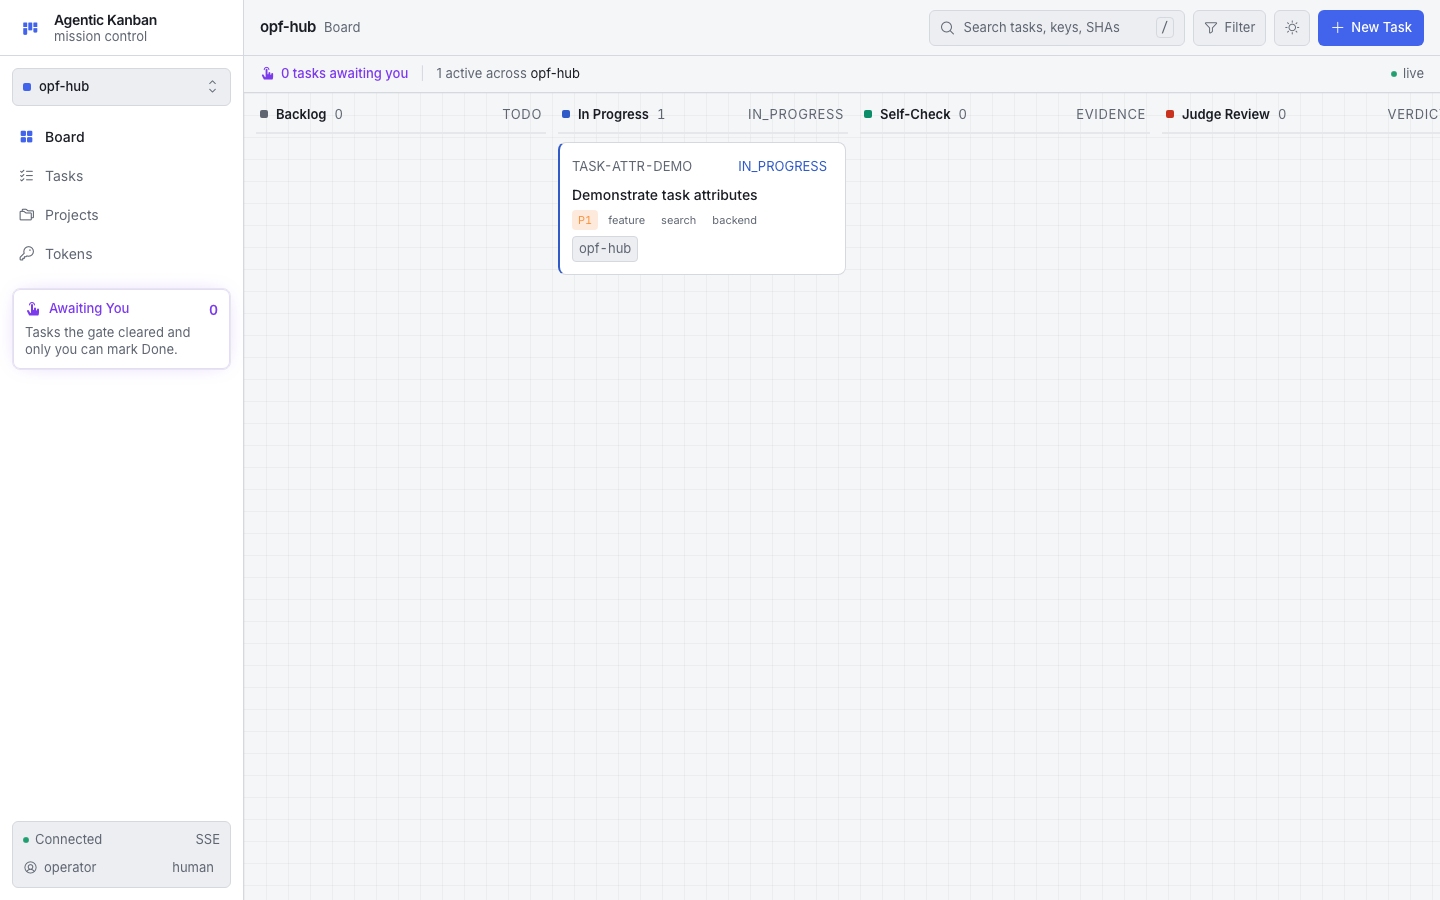
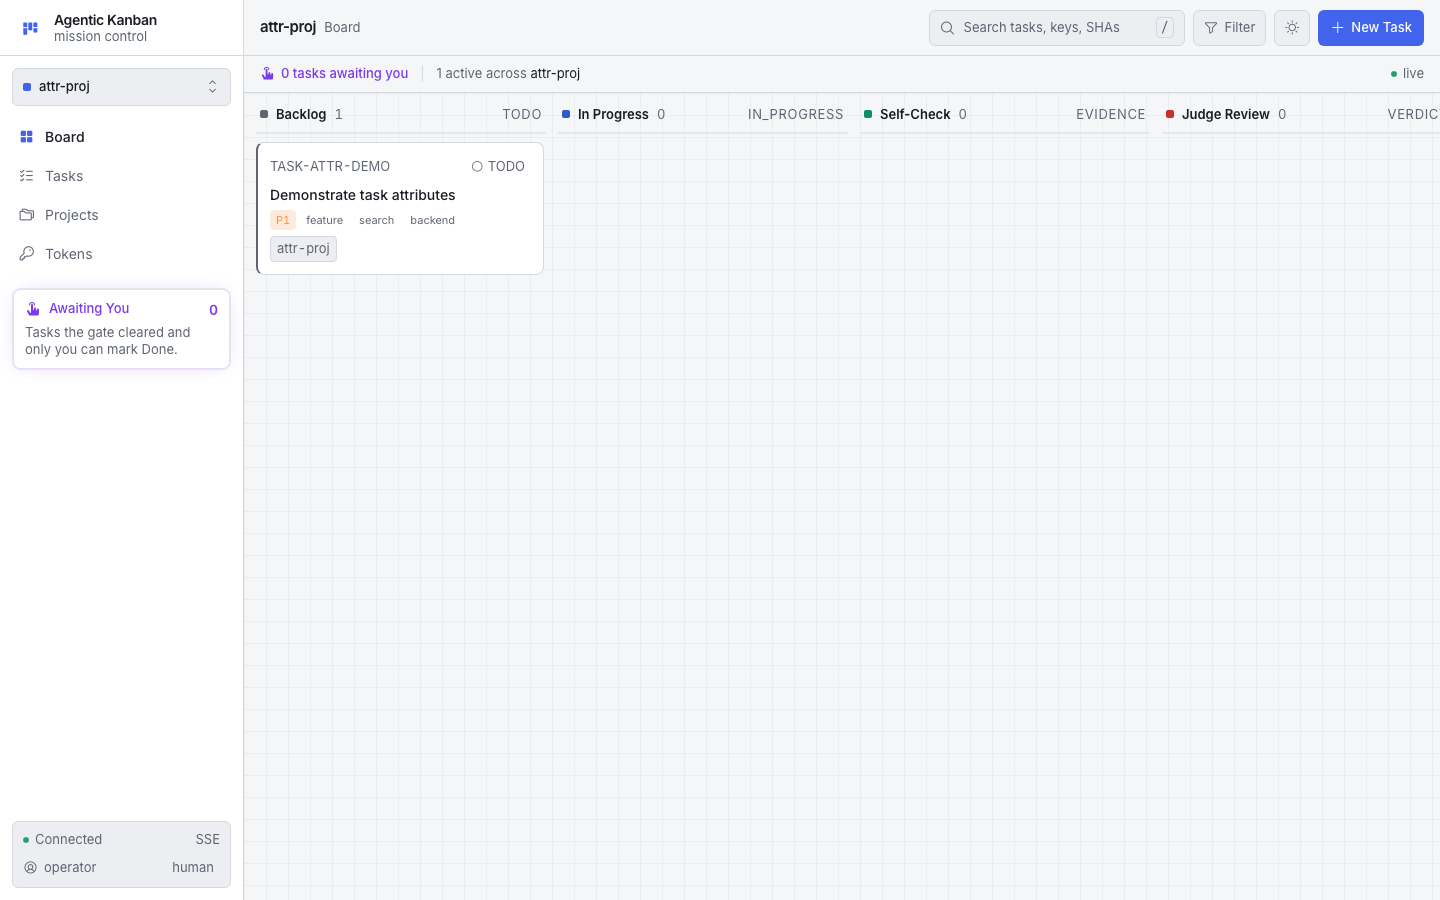
fix(TASK-021): rebase onto master (TASK-017/022/025); de-mock Playwright spec to real server
- rebased fix/TASK-021-task-attributes onto master 72a50a0 (one import
  conflict in routes.ts, union-resolved: insertProject + updateTaskAttributes).
- mcp-server.test.ts: replace the two remaining 'as any' casts with typed
  casts to keep master's lint-zero state (0 errors, 0 warnings).
- tests/ui/task-attributes.spec.ts: rewritten to master's de-mocked pattern —
  spawns the real dev-server (port 4621, throwaway DB), seeds attr-proj +
  TASK-ATTR-DEMO with all 5 attributes via POST /api/tasks and a gitref row
  with mr_url; board/drawer/edit tests now run against the real API. New
  end-to-end assertion: edit priority->P0, estimate->24 in the drawer, Save
  (real PATCH), reloaded drawer shows new values, and GET confirms
  persistence with untouched fields preserved.
- screenshots regenerated from the real board (4x 1440x900).
- agent-transcript.md section 2 updated to describe the real-server tests.

diff --git a/tests/ui/task-attributes.spec.ts b/tests/ui/task-attributes.spec.ts
@@ -3,79 +3,112 @@
  *
  * Verifies that the 5 task attributes (priority, complexity, estimate_hours,
  * tags, link_document) are present in the create form, displayed in the
- * detail drawer, and rendered as badges on board cards.
+ * detail drawer, and rendered as badges on board cards — and that editing
+ * them in the drawer persists through PATCH /api/tasks/:key.
  *
- * Uses file:// protocol with window.__kanban_api mocks (no live server needed).
+ * The form test loads new-task.html via file:// (static markup assertions).
+ * The board/drawer tests spawn a REAL server (node dev-server.mjs, requires
+ * `pnpm build` first) on a dedicated port with a throwaway DB and seed a task
+ * with all 5 attributes via POST /api/tasks — no API mocks.
+ *
  * Screenshots are captured to docs/ui/TASK-021/.
  */
-import { test, expect, type Page } from '@playwright/test';
+import { test, expect } from '@playwright/test';
+import { spawn, type ChildProcess } from 'node:child_process';
+import Database from 'better-sqlite3';
 import path from 'node:path';
 import fs from 'node:fs';
+import os from 'node:os';
 import { fileURLToPath } from 'node:url';
 
 const __filename = fileURLToPath(import.meta.url);
 const __dirname = path.dirname(__filename);
-const DS_DIR = path.resolve(__dirname, '../../design-system');
-const OUT_DIR = path.resolve(__dirname, '../../docs/ui/TASK-021');
+const ROOT = path.resolve(__dirname, '../..');
+const DS_DIR = path.join(ROOT, 'design-system');
+const OUT_DIR = path.join(ROOT, 'docs/ui/TASK-021');
+
+const PORT = 4621;
+const BASE = `http://127.0.0.1:${PORT}`;
+const TOKEN = 'e2e-task021-token';
+const PROJECT = 'attr-proj';
+const KEY = 'TASK-ATTR-DEMO';
+
+let server: ChildProcess;
+let dbPath: string;
 
 function pageUrl(file: string): string {
   return `file://${path.join(DS_DIR, file)}`;
 }
 
-// Mock task with all attributes set — used for board + drawer views
-const MOCK_TASK = {
-  id: 'task_attr_demo',
-  key: 'TASK-ATTR-DEMO',
-  title: 'Demonstrate task attributes',
-  state: 'IN_PROGRESS',
-  project: 'opf-hub',
-  priority: 'P1',
-  complexity: 'L',
-  estimate_hours: 16,
-  tags: ['feature', 'search', 'backend'],
-  link_document: 'https://docs.example.com/search-spec',
-  body_md: '## Purpose\nDemo task to show all 5 attributes.\n',
-  created_at: '2026-06-10T10:00:00Z',
-  updated_at: '2026-06-10T12:30:00Z',
-};
+async function api(method: string, p: string, body?: unknown): Promise<Response> {
+  return fetch(`${BASE}${p}`, {
+    method,
+    headers: { Authorization: `Bearer ${TOKEN}`, 'Content-Type': 'application/json' },
+    body: body === undefined ? undefined : JSON.stringify(body),
+  });
+}
 
-/**
- * Inject mock __kanban_api via addInitScript so the board and drawer
- * render with mock data instead of hitting a real API server.
- */
-async function injectMockApi(page: Page) {
-  await page.addInitScript((task) => {
-    // Set token so api.js won't redirect to signin
-    localStorage.setItem('kanban_token', 'mock-human-token');
-    // Override the api object once api.js sets it
-    const origDescriptor = Object.getOwnPropertyDescriptor(window, '__kanban_api');
-    let _api: any = null;
-    Object.defineProperty(window, '__kanban_api', {
-      get() { return _api; },
-      set(v: any) {
-        _api = v;
-        // Replace methods with mocks
-        if (v) {
-          v.listProjects = () => Promise.resolve({ projects: [{ id: 'proj_1', slug: 'opf-hub', name: 'opf-hub' }] });
-          v.listTasks = (_proj: string, _state?: string) => Promise.resolve({ tasks: [task] });
-          v.getTask = (_proj: string, _key: string) => Promise.resolve({
-            task,
-            gitrefs: [{ repo: '.', branch: 'fix/TASK-021', mr_url: 'https://github.com/example/repo/pull/42' }],
-            comments: [],
-            evidence: [],
-            timeline: [],
-          });
-          v.updateTask = (_proj: string, _key: string, patch: any) => Promise.resolve({ task: { ...task, ...patch } });
-        }
-      },
-      configurable: true,
-    });
-  }, MOCK_TASK);
+async function waitForServer(): Promise<void> {
+  for (let i = 0; i < 50; i++) {
+    try {
+      const res = await fetch(`${BASE}/healthz`);
+      if (res.ok) return;
+    } catch { /* not up yet */ }
+    await new Promise((r) => setTimeout(r, 200));
+  }
+  throw new Error('dev server did not come up on ' + BASE);
 }
 
 test.describe('TASK-021: Task Attributes UI', () => {
-  test.beforeAll(() => {
+  test.beforeAll(async () => {
     fs.mkdirSync(OUT_DIR, { recursive: true });
+    // tsc does not copy .sql migrations into dist/ — dev-server needs them.
+    fs.cpSync(path.join(ROOT, 'server/src/db/migrations'), path.join(ROOT, 'dist/db/migrations'), { recursive: true });
+    dbPath = path.join(os.tmpdir(), `task021-e2e-${Date.now()}.db`);
+    server = spawn('node', ['dev-server.mjs'], {
+      cwd: ROOT,
+      env: { ...process.env, PORT: String(PORT), DB_PATH: dbPath, ADMIN_TOKEN: TOKEN },
+      stdio: 'inherit',
+    });
+    await waitForServer();
+
+    // Seed: a project and ONE task carrying all 5 attributes (real POSTs).
+    await api('POST', '/api/projects', { slug: PROJECT, name: 'Attribute Project' });
+    const created = await api('POST', '/api/tasks', {
+      project: PROJECT,
+      key: KEY,
+      title: 'Demonstrate task attributes',
+      body_md: '## Purpose\nDemo task to show all 5 attributes.\n',
+      priority: 'P1',
+      complexity: 'L',
+      estimate_hours: 16,
+      tags: ['feature', 'search', 'backend'],
+      link_document: 'https://docs.example.com/search-spec',
+    });
+    expect(created.status).toBe(201);
+
+    // Seed a gitref with an MR URL directly in the throwaway DB so the drawer
+    // can show the PR link sourced from gitref.mr_url (no HTTP write endpoint
+    // for gitrefs — that is an MCP tool).
+    const db = new Database(dbPath);
+    const task = db.prepare(`SELECT id FROM task WHERE key = ?`).get(KEY) as { id: string };
+    db.prepare(`
+      INSERT INTO gitref (id, task_id, repo, branch, base_sha, head_sha, mr_url, mr_state)
+      VALUES (?, ?, ?, ?, ?, ?, ?, ?)
+    `).run('ref_e2e_021', task.id, '.', 'fix/TASK-021', 'a'.repeat(40), 'b'.repeat(40),
+      'https://github.com/example/repo/pull/42', 'open');
+    db.close();
+  });
+
+  test.afterAll(async () => {
+    if (server) server.kill('SIGTERM');
+    if (dbPath) { try { fs.unlinkSync(dbPath); } catch { /* ignore */ } }
+  });
+
+  test.beforeEach(async ({ page }) => {
+    await page.addInitScript((tok) => {
+      localStorage.setItem('kanban_token', tok);
+    }, TOKEN);
   });
 
   test('new-task form has all attribute fields with correct options', async ({ page }) => {
@@ -125,38 +158,28 @@ test.describe('TASK-021: Task Attributes UI', () => {
     await page.screenshot({ path: path.join(OUT_DIR, 'form-attributes.png'), fullPage: true });
   });
 
-  test('board card renders priority badge and tags from task data', async ({ page }) => {
-    await injectMockApi(page);
-    await page.goto(pageUrl('index.html'));
+  test('board card renders priority badge and tags from real task data', async ({ page }) => {
+    await page.goto(`${BASE}/${PROJECT}/index.html`);
 
-    // Wait for the mock task card to appear on the board (rendered by loadBoard)
-    await page.waitForFunction(
-      () => document.body.innerHTML.includes('TASK-ATTR-DEMO'),
-      { timeout: 15000 },
-    );
+    // The seeded task card appears on the real board.
+    const card = page.locator('article', { hasText: KEY }).first();
+    await expect(card).toBeVisible();
 
     // Priority badge is rendered on the card
-    await expect(page.locator('article span', { hasText: /^P1$/ }).first()).toBeVisible();
+    await expect(card.locator('span', { hasText: /^P1$/ }).first()).toBeVisible();
 
     // Tag badges are rendered on the card
-    await expect(page.locator('article span', { hasText: /^feature$/ }).first()).toBeVisible();
-    await expect(page.locator('article span', { hasText: /^search$/ }).first()).toBeVisible();
+    await expect(card.locator('span', { hasText: /^feature$/ }).first()).toBeVisible();
+    await expect(card.locator('span', { hasText: /^search$/ }).first()).toBeVisible();
 
     await page.screenshot({ path: path.join(OUT_DIR, 'board-card-badges.png'), fullPage: true });
   });
 
   test('detail drawer shows all attributes with correct values', async ({ page }) => {
-    await injectMockApi(page);
-    await page.goto(pageUrl('index.html'));
-
-    // Wait for board to render mock task
-    await page.waitForFunction(
-      () => document.body.innerHTML.includes('TASK-ATTR-DEMO'),
-      { timeout: 15000 },
-    );
+    await page.goto(`${BASE}/${PROJECT}/index.html`);
 
     // Click the task card to open the drawer
-    await page.locator('article', { hasText: 'TASK-ATTR-DEMO' }).first().click();
+    await page.locator('article', { hasText: KEY }).first().click();
 
     // Wait for drawer to open and show the task title
     await page.waitForFunction(
@@ -188,21 +211,17 @@ test.describe('TASK-021: Task Attributes UI', () => {
     // Link document link displayed
     await expect(drawerBody.locator('a[href="https://docs.example.com/search-spec"]').first()).toBeVisible();
 
+    // PR link sourced from gitref.mr_url (no separate PR column)
+    await expect(drawerBody.locator('a[href="https://github.com/example/repo/pull/42"]').first()).toBeVisible();
+
     await page.screenshot({ path: path.join(OUT_DIR, 'detail-attributes-view.png'), fullPage: true });
   });
 
-  test('detail drawer edit form has attribute fields with current values populated', async ({ page }) => {
-    await injectMockApi(page);
-    await page.goto(pageUrl('index.html'));
-
-    // Wait for board to render mock task
-    await page.waitForFunction(
-      () => document.body.innerHTML.includes('TASK-ATTR-DEMO'),
-      { timeout: 15000 },
-    );
+  test('detail drawer edit form is populated and saving persists via PATCH', async ({ page }) => {
+    await page.goto(`${BASE}/${PROJECT}/index.html`);
 
     // Click card to open drawer
-    await page.locator('article', { hasText: 'TASK-ATTR-DEMO' }).first().click();
+    await page.locator('article', { hasText: KEY }).first().click();
 
     // Wait for drawer to open
     await page.waitForFunction(
@@ -235,7 +254,7 @@ test.describe('TASK-021: Task Attributes UI', () => {
     await expect(page.locator('#edit-tags')).toBeVisible();
     await expect(page.locator('#edit-link_document')).toBeVisible();
 
-    // Verify current values are populated
+    // Verify current values are populated from the real task
     expect(await page.locator('#edit-priority').inputValue()).toBe('P1');
     expect(await page.locator('#edit-complexity').inputValue()).toBe('L');
     expect(await page.locator('#edit-estimate_hours').inputValue()).toBe('16');
@@ -243,5 +262,25 @@ test.describe('TASK-021: Task Attributes UI', () => {
     expect(await page.locator('#edit-link_document').inputValue()).toBe('https://docs.example.com/search-spec');
 
     await page.screenshot({ path: path.join(OUT_DIR, 'detail-drawer-priority-tags.png'), fullPage: true });
+
+    // Edit priority + estimate and save (real PATCH /api/tasks/:key)
+    await page.locator('#edit-priority').selectOption('P0');
+    await page.locator('#edit-estimate_hours').fill('24');
+    await page.getByRole('button', { name: 'Save' }).click();
+    await expect(page.locator('#edit-attrs-msg')).toHaveText('Saved!');
+
+    // The drawer reloads (~600ms) and the display section shows the new values.
+    await expect(page.locator('#drawer-body span', { hasText: /^P0$/ }).first()).toBeVisible();
+    await expect(page.locator('#drawer-body span', { hasText: /^24h$/ }).first()).toBeVisible();
+
+    // And the change is persisted server-side (real GET, not the UI's echo).
+    const res = await api('GET', `/api/tasks/${KEY}?project=${PROJECT}`);
+    expect(res.status).toBe(200);
+    const body = (await res.json()) as { task: { priority: string; estimate_hours: number; complexity: string; tags: string[] } };
+    expect(body.task.priority).toBe('P0');
+    expect(body.task.estimate_hours).toBe(24);
+    // Untouched fields preserved
+    expect(body.task.complexity).toBe('L');
+    expect(body.task.tags).toEqual(['feature', 'search', 'backend']);
   });
 });

diff --git a/server/src/mcp/mcp-server.test.ts b/server/src/mcp/mcp-server.test.ts
@@ -165,7 +165,7 @@ describe('TASK-021 AC12: task attributes via real MCP client (task.create + task
         },
       })
       expect(res.isError).toBeFalsy()
-      const created = JSON.parse((res.content as any)[0].text) as Record<string, unknown>
+      const created = JSON.parse((res.content as Array<{ text: string }>)[0].text) as Record<string, unknown>
       expect(created.priority).toBe('P1')
       expect(created.complexity).toBe('L')
       expect(created.estimate_hours).toBe(16)
@@ -219,7 +219,7 @@ describe('TASK-021 AC12: task attributes via real MCP client (task.create + task
         },
       })
       expect(updateRes.isError).toBeFalsy()
-      const updated = JSON.parse((updateRes.content as any)[0].text) as Record<string, unknown>
+      const updated = JSON.parse((updateRes.content as Array<{ text: string }>)[0].text) as Record<string, unknown>
       expect(updated.priority).toBe('P0')
       expect(JSON.parse(updated.tags as string)).toEqual(['urgent', 'initial'])
 

diff --git a/docs/api/TASK-021/agent-transcript.md b/docs/api/TASK-021/agent-transcript.md
@@ -50,46 +50,56 @@ Full test suite output:
 
 ---
 
-## 2. Playwright — UI attribute display tests
+## 2. Playwright — UI attribute tests against a REAL server (no API mocks)
 
 **Command**: `npx playwright test tests/ui/task-attributes.spec.ts --reporter=line`
 **Result**: 4 tests passed. Real 1440x900 screenshots saved to `docs/ui/TASK-021/`.
 
+The spec spawns the real server (`node dev-server.mjs`, port 4621, throwaway
+SQLite DB) and seeds project `attr-proj` + task `TASK-ATTR-DEMO` carrying all
+5 attributes via a real `POST /api/tasks`, plus a gitref row with `mr_url`
+(direct DB insert — gitref writes are MCP-only).
+
 ```
-4 passed (3.9s)
+4 passed (5.3s)
 ```
 
 ### Test 1: new-task form has all attribute fields
-- Loads `new-task.html` via `file://` protocol
+- Loads `new-task.html` via `file://` protocol (static markup assertions)
 - Asserts `#field-priority` visible with options P0–P3
 - Asserts `#field-complexity` visible with options XS–XL
 - Asserts `#field-estimate_hours` visible (type=number, min=0)
 - Asserts `#field-tags` visible
 - Asserts `#field-link_document` visible (type=url)
 - Fills values (P1, M, 8, "backend, api", URL) and verifies they persist
-- **Screenshot**: `docs/ui/TASK-021/form-attributes.png` (108KB, 1440x900)
+- **Screenshot**: `docs/ui/TASK-021/form-attributes.png` (1440x900)
 
-### Test 2: board card renders priority badge and tags
-- Loads `index.html` with mock API injected via `__kanban_api`
-- Mock task: priority=P1, complexity=L, estimate=16h, tags=[feature,search,backend]
+### Test 2: board card renders priority badge and tags from real task data
+- Loads the real project board at `/attr-proj/index.html`
+- Seeded task: priority=P1, complexity=L, estimate=16h, tags=[feature,search,backend]
 - Asserts P1 priority badge visible on card
 - Asserts "feature" and "search" tag badges visible
-- **Screenshot**: `docs/ui/TASK-021/board-card-badges.png` (68KB, 1440x900)
+- **Screenshot**: `docs/ui/TASK-021/board-card-badges.png` (1440x900)
 
 ### Test 3: detail drawer shows all attributes
-- Opens drawer by clicking the task card
+- Opens drawer by clicking the task card (real `GET /api/tasks/:key`)
 - Asserts P1 priority badge displayed in drawer
 - Asserts complexity "L" displayed
 - Asserts estimate "16h" displayed
 - Asserts tags "feature", "search", "backend" displayed
 - Asserts link to `https://docs.example.com/search-spec` present
-- **Screenshot**: `docs/ui/TASK-021/detail-attributes-view.png` (99KB, 1440x900)
+- Asserts PR/MR link `https://github.com/example/repo/pull/42` from `gitref.mr_url`
+- **Screenshot**: `docs/ui/TASK-021/detail-attributes-view.png` (1440x900)
 
-### Test 4: detail drawer edit form has populated values
+### Test 4: detail drawer edit form is populated and saving persists via PATCH
 - Clicks "Edit" button to toggle edit mode
 - Asserts `#edit-priority`, `#edit-complexity`, `#edit-estimate_hours`, `#edit-tags`, `#edit-link_document` visible
 - Asserts current values populated: P1, L, 16, "feature, search, backend", URL
-- **Screenshot**: `docs/ui/TASK-021/detail-drawer-priority-tags.png` (101KB, 1440x900)
+- **Screenshot**: `docs/ui/TASK-021/detail-drawer-priority-tags.png` (1440x900)
+- Then edits priority→P0 and estimate→24, clicks Save (real `PATCH /api/tasks/:key`),
+  asserts "Saved!", asserts the reloaded drawer shows P0 / 24h, and re-fetches the
+  task via `GET /api/tasks/:key` asserting priority=P0, estimate=24 persisted with
+  complexity/tags unchanged
 
 ---
 
